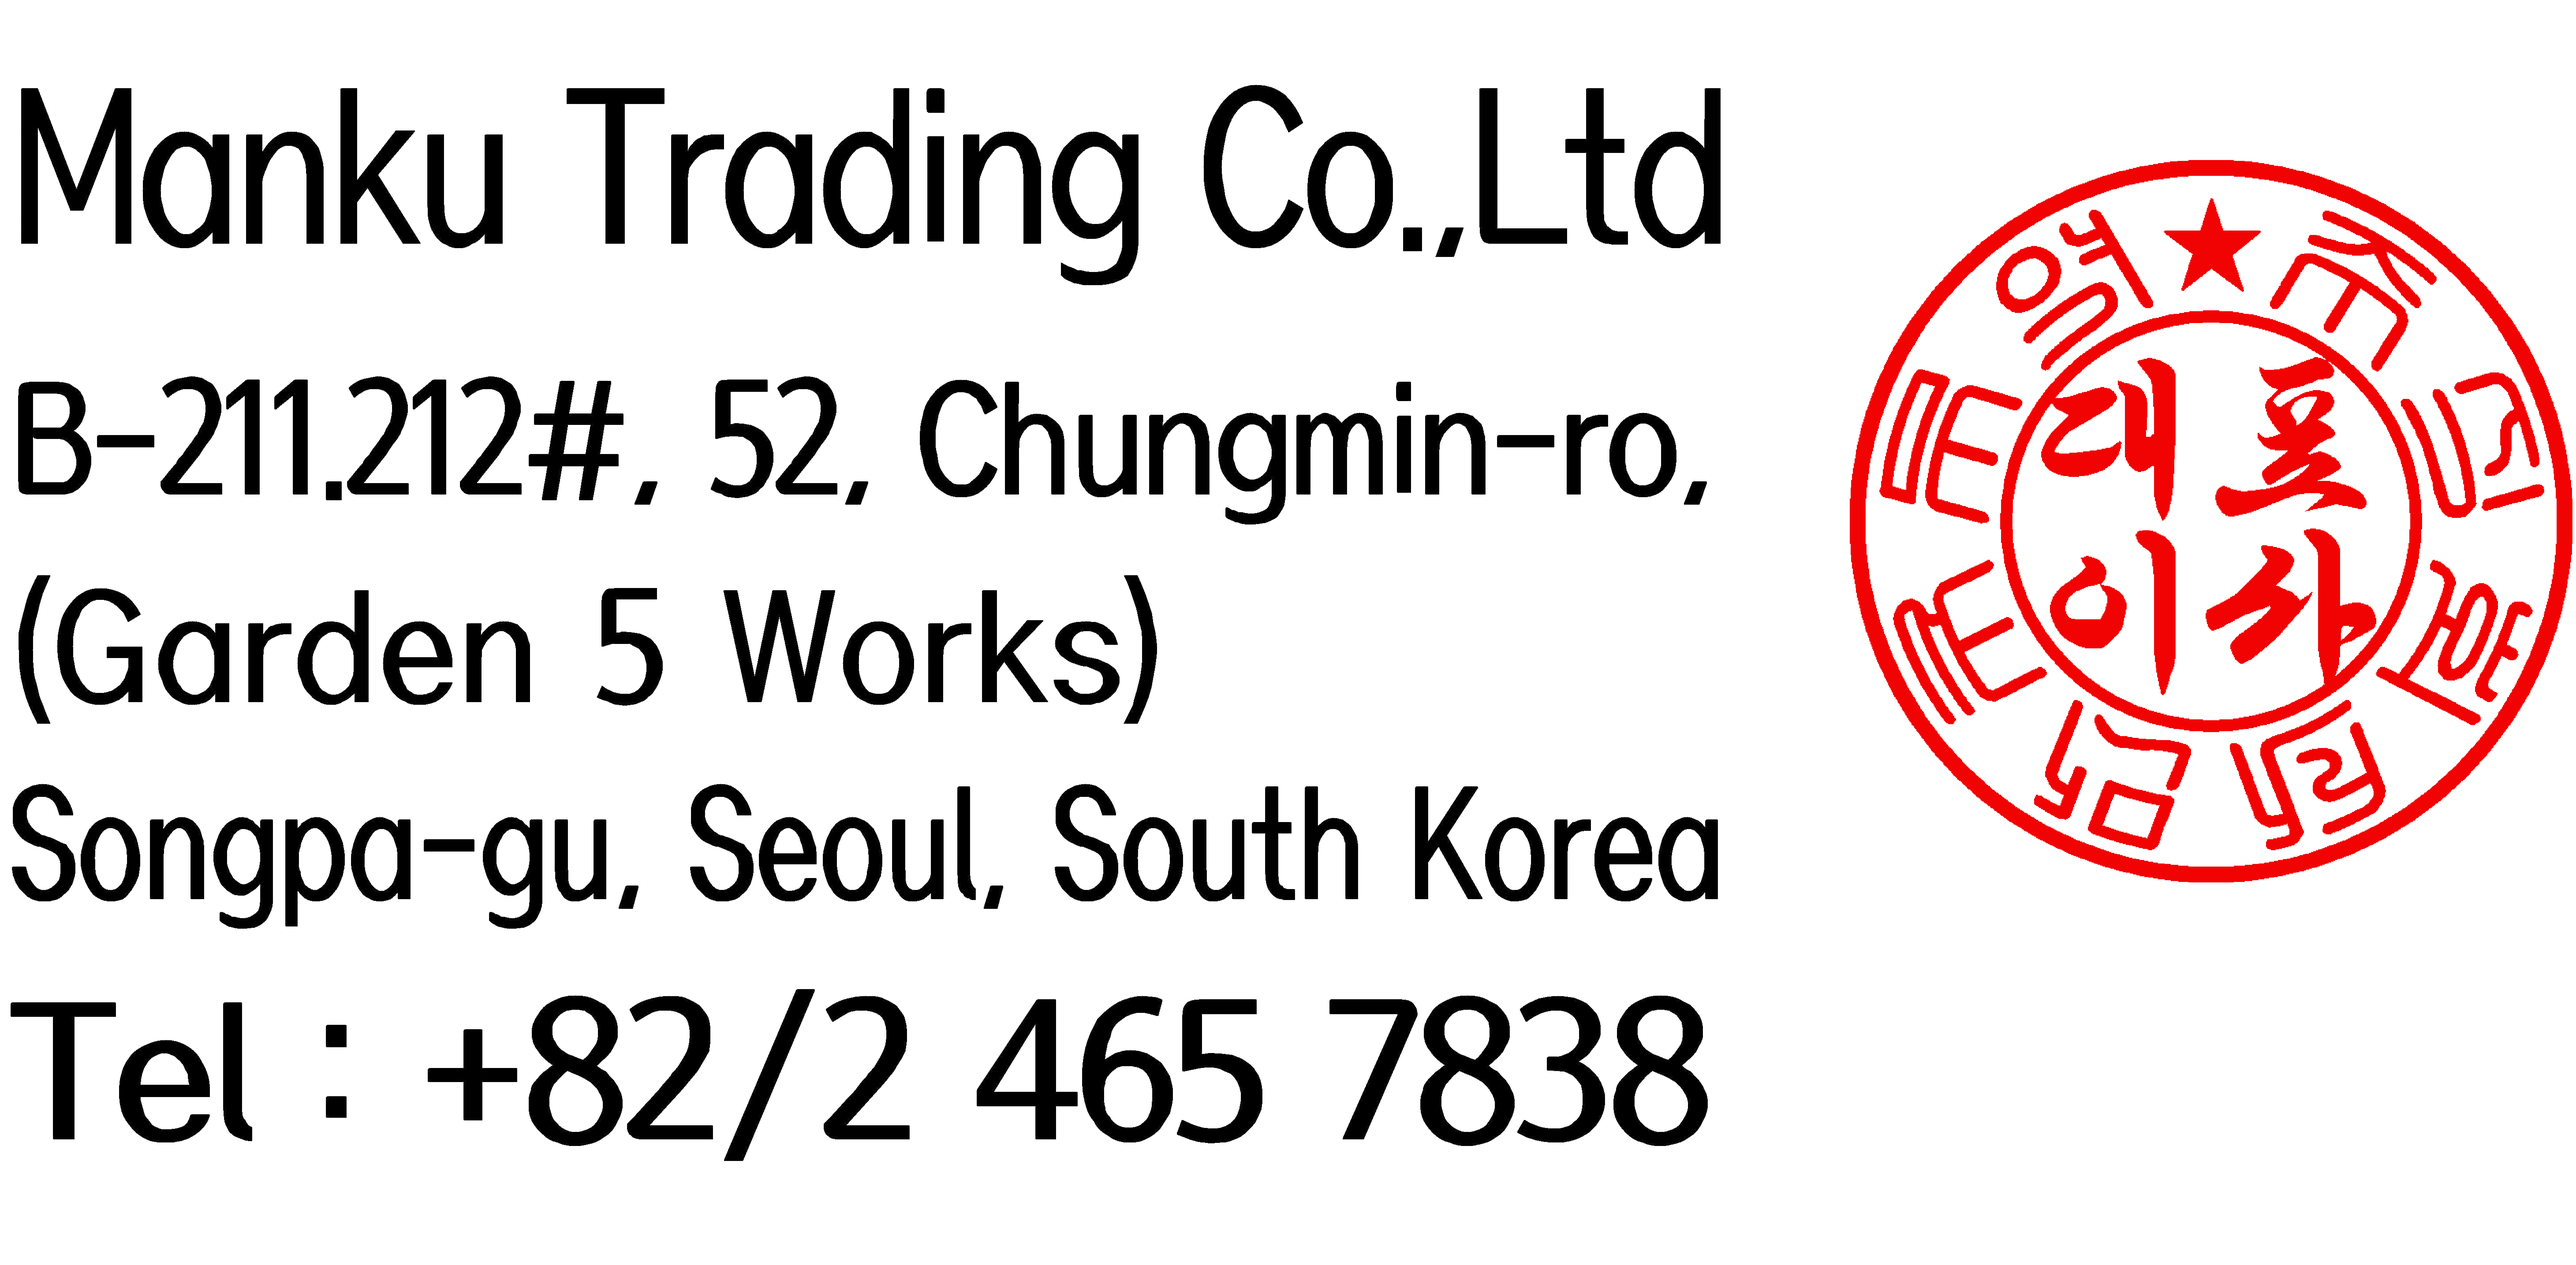
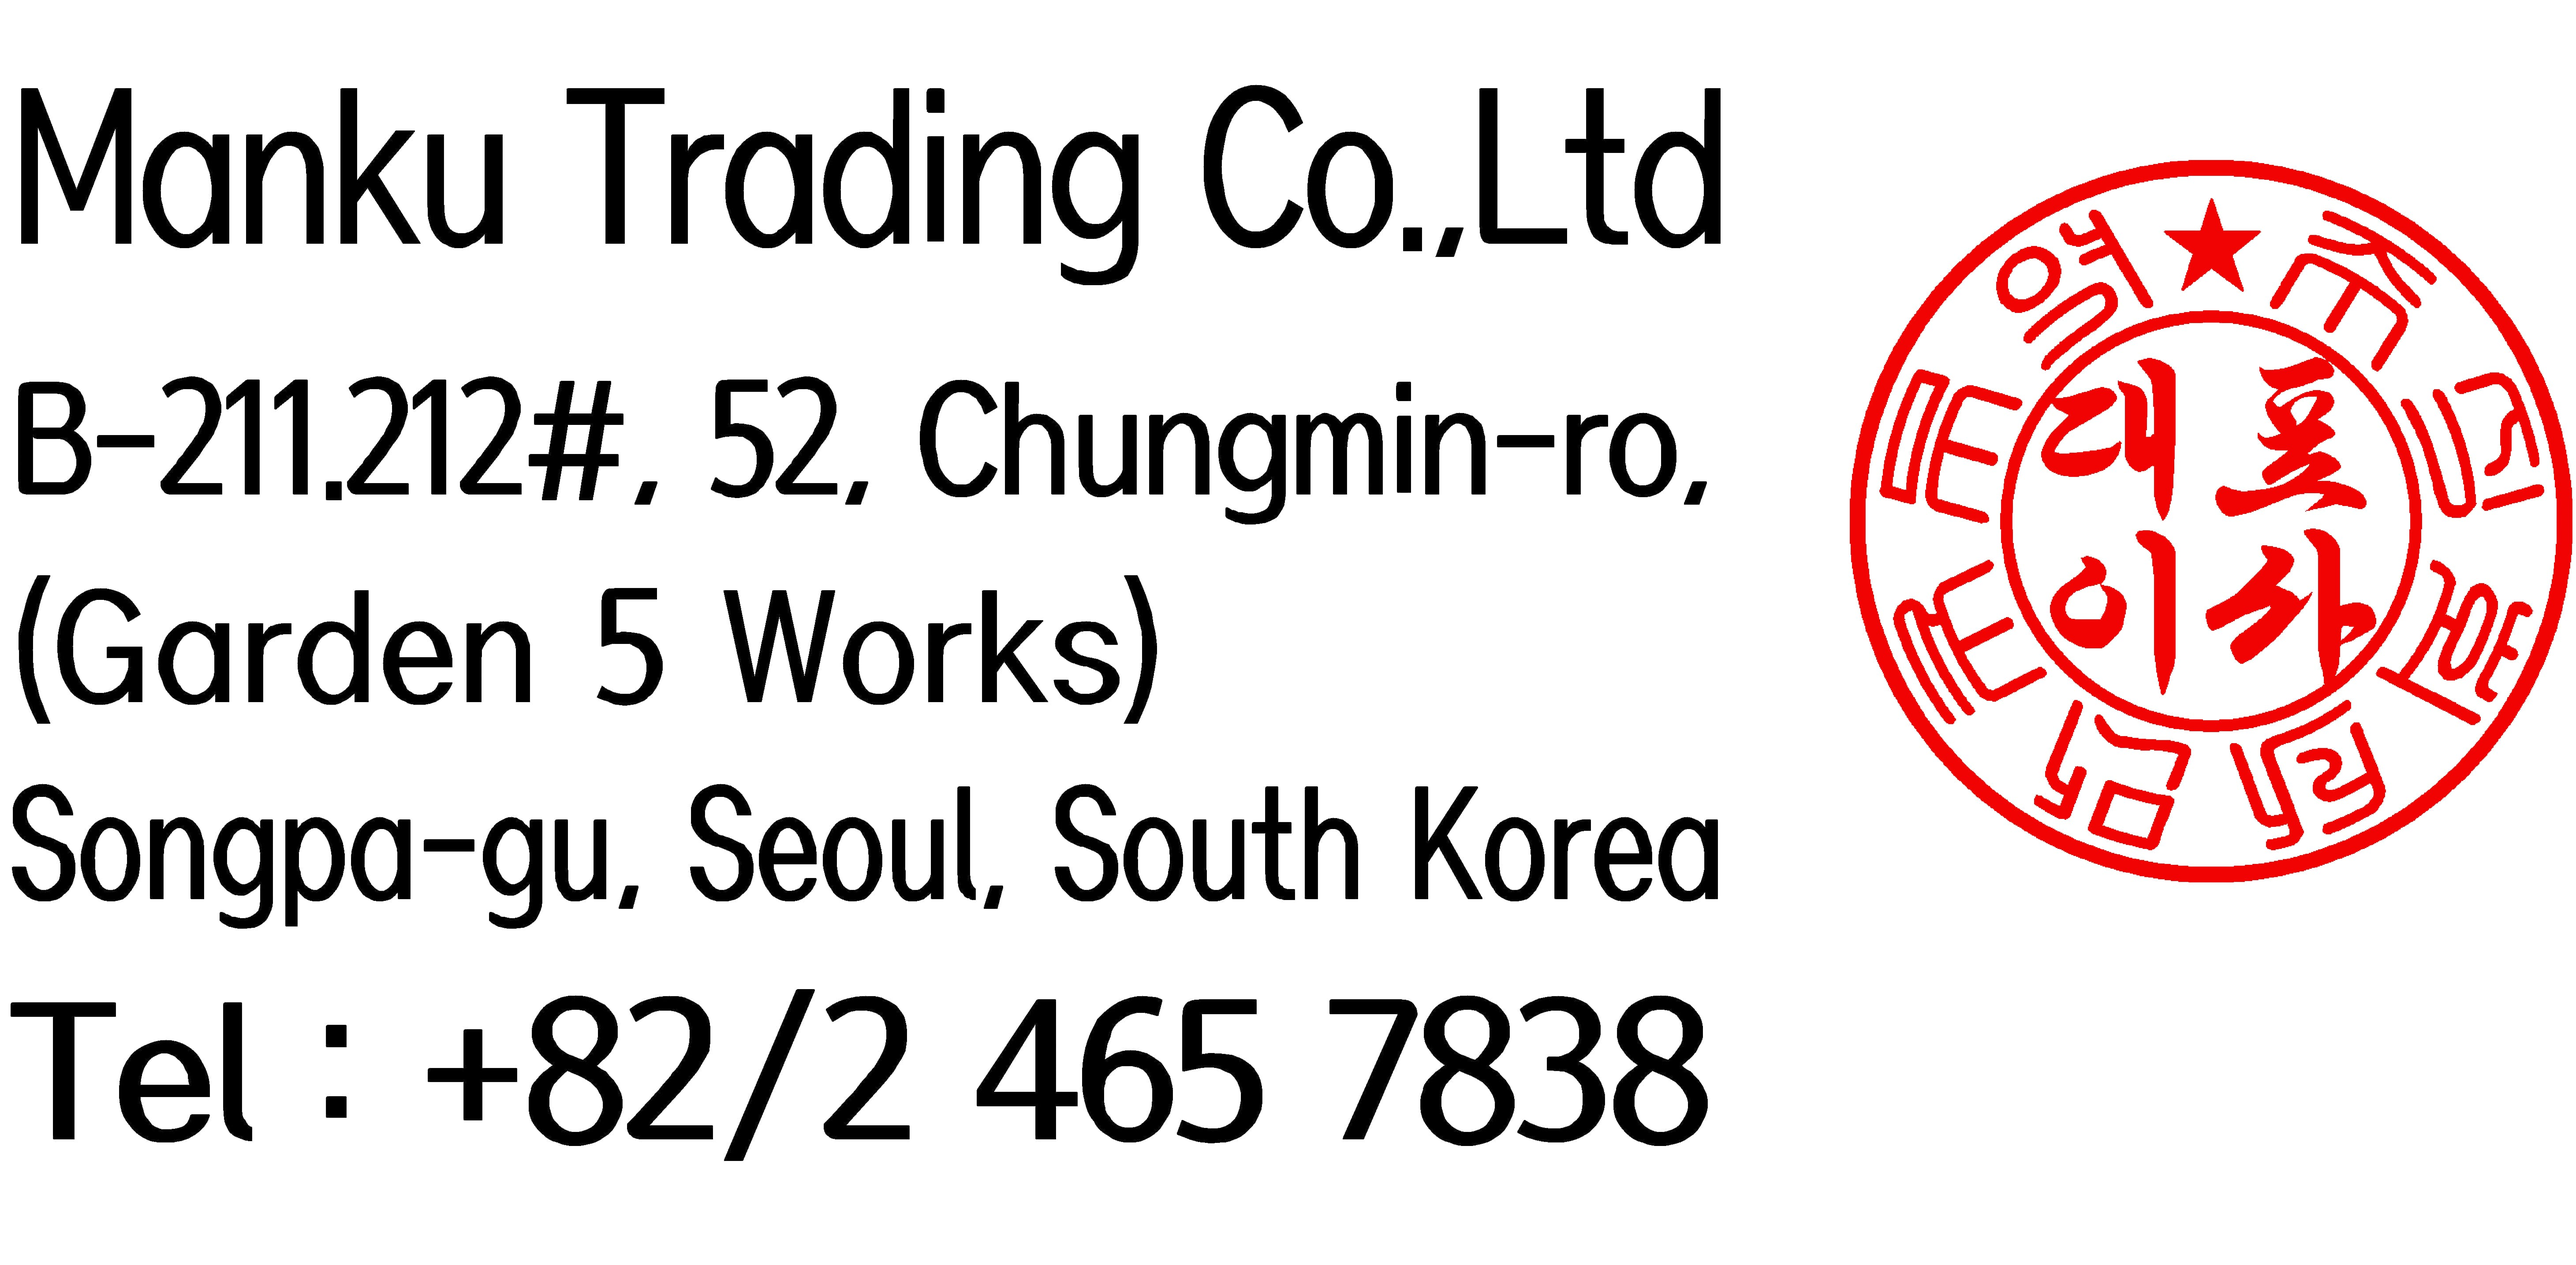
a

Changed region(s): [[0.9969, 0.4341, 1.0, 0.4652], [0.9969, 0.3721, 1.0, 0.4031]]

diff --git a/src/component/PrintPoForm.tsx b/src/component/PrintPoForm.tsx
@@ -1,11 +1,8 @@
 // 폰트 설정 (기본 한글 폰트 필요 시 추가해야 함)
 import styles from "@/component/util/Common";
 import {Document, Font, Image, Page, Text, View} from '@react-pdf/renderer';
-import React, {useEffect, useState} from "react";
+import React from "react";
 import {commonManage} from "@/utils/commonManage";
-import {paperTopInfo} from "@/utils/common";
-import {isEmptyObj} from "@/utils/common/function/isEmptyObj";
-import {linearGradient} from "html2canvas/dist/types/css/types/functions/linear-gradient";
 
 Font.register({
     family: 'NotoSansKR',
@@ -43,7 +40,7 @@ export function PrintPoForm({data, topInfoData, totalData, bottomInfo, title, la
                                 </View>
                             </View>
                             <View style={styles.centerTitle}>
-                                <Text style={styles.title}>발    주    서</Text>
+                                <Text style={styles.title}>발 주 서</Text>
                             </View>
                             <View style={styles.rightInfo}>
                                 <Image src="/manku_stamp_ko.png" style={styles.info}/>
@@ -68,7 +65,7 @@ export function PrintPoForm({data, topInfoData, totalData, bottomInfo, title, la
                                 <Text style={styles.title2}>ORDER</Text>
                             </View>
                             <View style={styles.rightInfo}>
-                                <Image src="/manku_stamp_en.jpg" style={styles.info}/>
+                                <Image src="/manku_stamp_en.png" style={styles.info}/>
                             </View>
                         </View>
                 }
@@ -307,7 +304,7 @@ export function PrintPoForm({data, topInfoData, totalData, bottomInfo, title, la
                                     </View>
                                 </View>
                                 <View style={styles.centerTitle}>
-                                    <Text style={styles.title}>발    주    서</Text>
+                                    <Text style={styles.title}>발 주 서</Text>
                                 </View>
                                 <View style={styles.rightInfo}>
                                     <Image src="/manku_stamp_ko.png" style={styles.info}/>
@@ -332,7 +329,7 @@ export function PrintPoForm({data, topInfoData, totalData, bottomInfo, title, la
                                     <Text style={styles.title2}>ORDER</Text>
                                 </View>
                                 <View style={styles.rightInfo}>
-                                    <Image src="/manku_stamp_en.jpg" style={styles.info}/>
+                                    <Image src="/manku_stamp_en.png" style={styles.info}/>
                                 </View>
                             </View>
                     }
